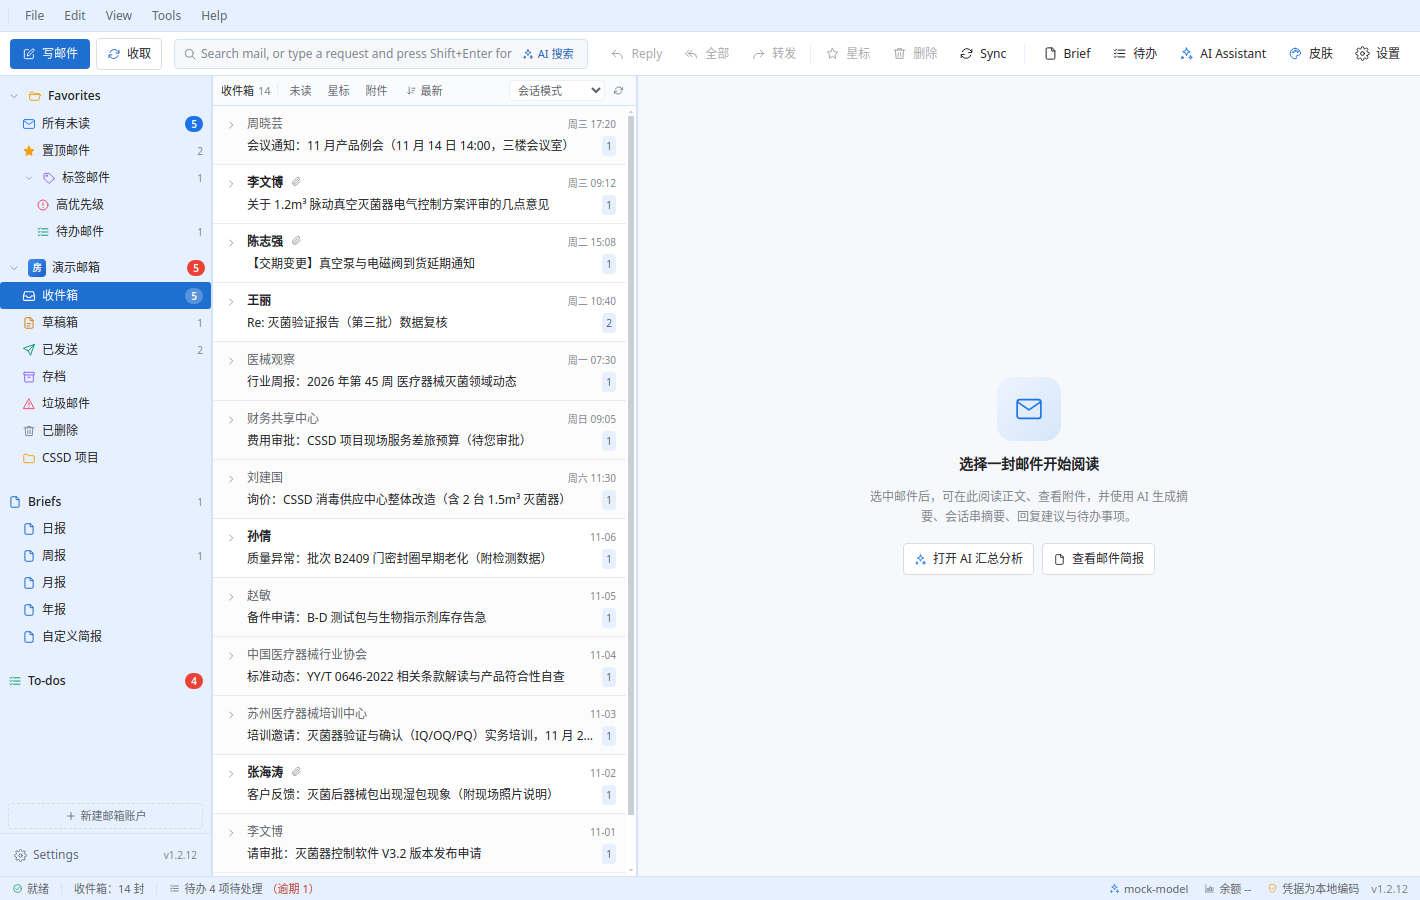
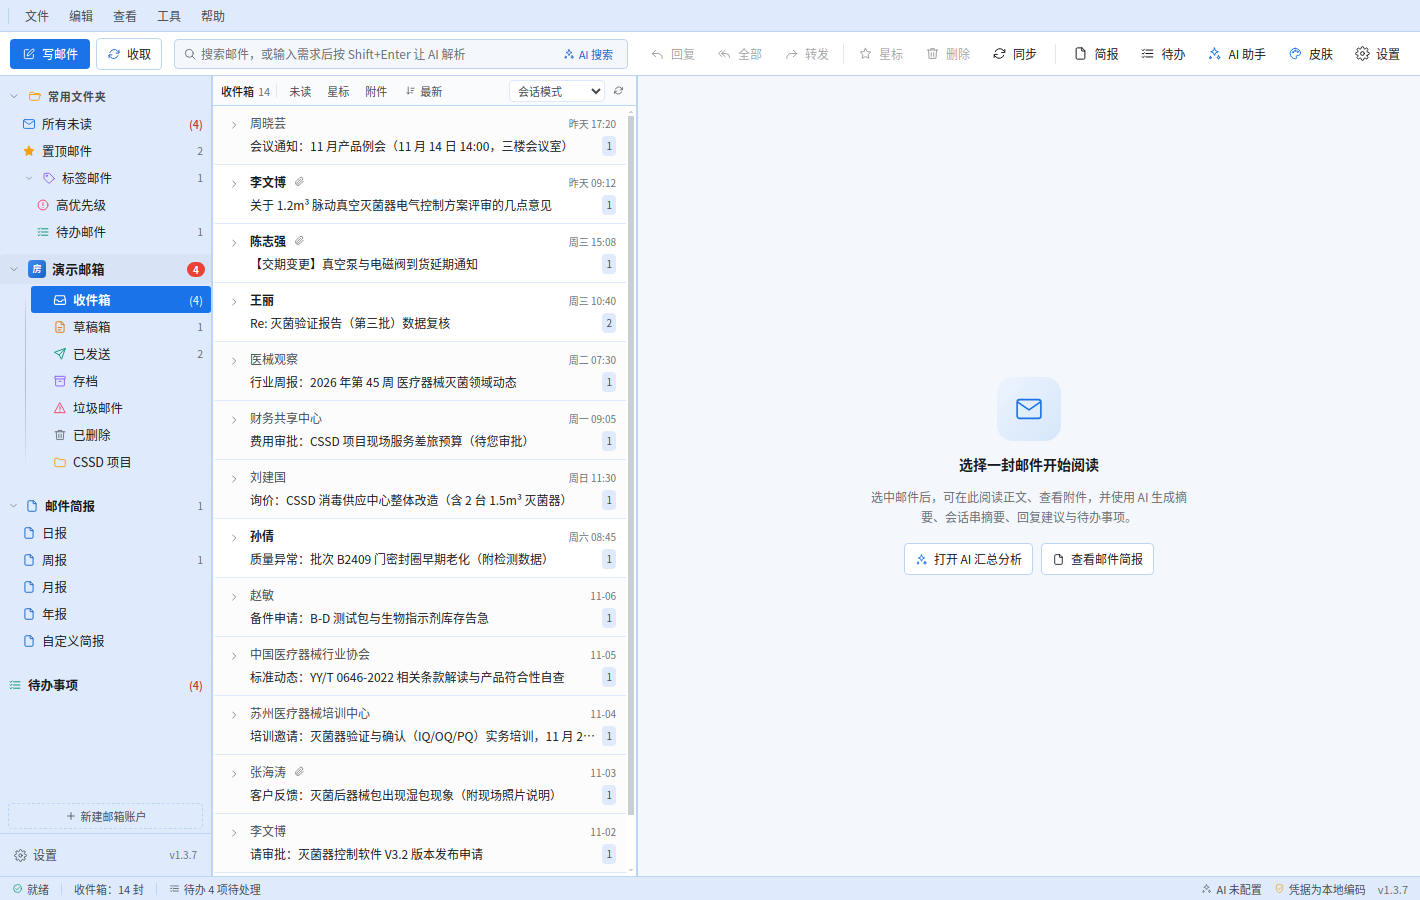
style(v1.3.8): 六套皮肤对比度强化，层级引导线改为渐隐细线

diff --git a/src/index.css b/src/index.css
@@ -18,14 +18,14 @@
     --c-accent-400: 236 111 66;
     --c-accent-500: 232 84 30;
     --c-accent-600: 195 71 25;
-    --c-shell-bg: 245 246 247;
+    --c-shell-bg: 243 244 246;
     --c-shell-panel: 255 255 255;
-    --c-shell-chrome: 238 240 242;
-    --c-shell-line: 217 221 226;
-    --c-shell-lineSoft: 232 235 238;
-    --c-shell-text: 31 35 41;
-    --c-shell-sub: 95 103 114;
-    --c-shell-faint: 141 149 159;
+    --c-shell-chrome: 234 237 240;
+    --c-shell-line: 203 209 216;
+    --c-shell-lineSoft: 222 227 232;
+    --c-shell-text: 22 26 32;
+    --c-shell-sub: 72 80 92;
+    --c-shell-faint: 112 121 133;
 }
 /* Gmail */
 html[data-skin="gmail"] {
@@ -42,14 +42,14 @@ html[data-skin="gmail"] {
     --c-accent-400: 237 97 85;
     --c-accent-500: 234 67 53;
     --c-accent-600: 197 56 45;
-    --c-shell-bg: 246 248 252;
+    --c-shell-bg: 244 247 252;
     --c-shell-panel: 255 255 255;
-    --c-shell-chrome: 230 240 254;
-    --c-shell-line: 210 227 252;
-    --c-shell-lineSoft: 232 240 254;
-    --c-shell-text: 32 33 36;
-    --c-shell-sub: 95 99 104;
-    --c-shell-faint: 128 134 139;
+    --c-shell-chrome: 223 235 253;
+    --c-shell-line: 190 212 244;
+    --c-shell-lineSoft: 221 233 250;
+    --c-shell-text: 24 25 28;
+    --c-shell-sub: 70 74 79;
+    --c-shell-faint: 105 111 117;
 }
 /* Outlook */
 html[data-skin="outlook"] {
@@ -66,14 +66,14 @@ html[data-skin="outlook"] {
     --c-accent-400: 216 84 88;
     --c-accent-500: 209 52 56;
     --c-accent-600: 176 44 47;
-    --c-shell-bg: 250 249 248;
+    --c-shell-bg: 249 248 246;
     --c-shell-panel: 255 255 255;
-    --c-shell-chrome: 234 232 230;
-    --c-shell-line: 210 208 206;
-    --c-shell-lineSoft: 237 235 233;
-    --c-shell-text: 32 31 30;
-    --c-shell-sub: 96 94 92;
-    --c-shell-faint: 138 136 134;
+    --c-shell-chrome: 226 223 220;
+    --c-shell-line: 194 191 187;
+    --c-shell-lineSoft: 224 221 217;
+    --c-shell-text: 24 23 22;
+    --c-shell-sub: 70 68 66;
+    --c-shell-faint: 108 106 104;
 }
 /* Foxmail */
 html[data-skin="foxmail"] {
@@ -90,14 +90,14 @@ html[data-skin="foxmail"] {
     --c-accent-400: 242 151 41;
     --c-accent-500: 240 131 0;
     --c-accent-600: 202 110 0;
-    --c-shell-bg: 238 241 244;
+    --c-shell-bg: 236 240 244;
     --c-shell-panel: 255 255 255;
-    --c-shell-chrome: 221 228 234;
-    --c-shell-line: 195 204 213;
-    --c-shell-lineSoft: 224 230 235;
-    --c-shell-text: 35 40 45;
-    --c-shell-sub: 85 96 107;
-    --c-shell-faint: 138 148 158;
+    --c-shell-chrome: 213 221 229;
+    --c-shell-line: 176 187 199;
+    --c-shell-lineSoft: 208 216 224;
+    --c-shell-text: 24 30 36;
+    --c-shell-sub: 62 74 87;
+    --c-shell-faint: 106 118 130;
 }
 /* Filo Mail */
 /* Notion Mail */
@@ -115,14 +115,14 @@ html[data-skin="notion"] {
     --c-accent-400: 70 151 231;
     --c-accent-500: 35 131 226;
     --c-accent-600: 29 110 190;
-    --c-shell-bg: 251 251 250;
+    --c-shell-bg: 250 250 249;
     --c-shell-panel: 255 255 255;
-    --c-shell-chrome: 241 241 239;
-    --c-shell-line: 222 220 215;
-    --c-shell-lineSoft: 238 237 234;
-    --c-shell-text: 55 53 47;
-    --c-shell-sub: 107 106 101;
-    --c-shell-faint: 155 154 151;
+    --c-shell-chrome: 235 235 232;
+    --c-shell-line: 203 201 195;
+    --c-shell-lineSoft: 226 224 219;
+    --c-shell-text: 38 36 30;
+    --c-shell-sub: 82 80 74;
+    --c-shell-faint: 128 126 121;
 }
 /* Neat Mail AI */
 
@@ -142,12 +142,12 @@ html[data-skin="contrast"] {
     --c-accent-600: 193 18 31;
     --c-shell-bg: 255 255 255;
     --c-shell-panel: 255 255 255;
-    --c-shell-chrome: 236 236 236;
-    --c-shell-line: 107 107 107;
-    --c-shell-lineSoft: 181 181 181;
+    --c-shell-chrome: 232 232 232;
+    --c-shell-line: 84 84 84;
+    --c-shell-lineSoft: 150 150 150;
     --c-shell-text: 0 0 0;
-    --c-shell-sub: 31 31 31;
-    --c-shell-faint: 77 77 77;
+    --c-shell-sub: 20 20 20;
+    --c-shell-faint: 64 64 64;
 }
 
 /* 高对比皮肤：加粗分隔线、放大正文对比 */

diff --git a/src/store/useAppStore.ts b/src/store/useAppStore.ts
@@ -5,6 +5,7 @@ import { resolveLocale, translate, type Locale } from '@/lib/i18n';
 import { api } from '@/lib/api';
 import { htmlToPlain } from '@/lib/markdown';
 import { dateOnly, fullTime } from '@/lib/format';
+import { applySkin } from '@/lib/skin';
 import type {
   Account,
   AccountInput,
@@ -434,7 +435,18 @@ export const useAppStore = create<State>((set, get) => ({
 
     // 截图与调试钩子
     window.__zhimailDev = {
-      showMail: () => set({ view: 'mail', aiPanelOpen: false }),
+      showMail: () => {
+        // 截图时固定回默认皮肤，避免上一次视图切换留下的皮肤影响主界面
+        const settings = get().settings;
+        if (settings && settings.ui.skin !== 'default') {
+          // 先同步切回默认皮肤（本地状态 + DOM 立即生效），再持久化，避免截图抓到上一个皮肤
+          const nextUi = { ...settings.ui, skin: 'default' as const };
+          set({ settings: { ...settings, ui: nextUi } });
+          applySkin('default');
+          void get().updateSettings({ ui: nextUi });
+        }
+        set({ view: 'mail', aiPanelOpen: false });
+      },
       showAI: () => {
         set({ view: 'mail', aiPanelOpen: true, aiTab: 'analysis' });
         void (async () => {

diff --git a/src/layout/FolderTree.tsx b/src/layout/FolderTree.tsx
@@ -354,7 +354,12 @@ export function FolderTree() {
                 <div className="relative ml-[25px] mt-0.5 pl-1.5">
                   <span
                     aria-hidden
-                    className="pointer-events-none absolute bottom-1.5 left-0 top-1.5 w-px rounded-full bg-gradient-to-b from-black/[0.03] via-black/[0.13] to-transparent"
+                    className="pointer-events-none absolute bottom-2 left-0 top-2 w-px rounded-full"
+                    style={{
+                      // 层级引导线：顶部淡入、中段最深、底部渐隐，避免整条实线的生硬感
+                      backgroundImage:
+                        'linear-gradient(to bottom, rgba(17,24,39,0) 0%, rgba(17,24,39,0.18) 16%, rgba(17,24,39,0.22) 52%, rgba(17,24,39,0.08) 90%, rgba(17,24,39,0) 100%)',
+                    }}
                   />
                   {accountFolders.map((folder) => (
                     <FolderRow

diff --git a/CHANGELOG.md b/CHANGELOG.md
@@ -1,3 +1,8 @@
+## [1.3.8] - 2026-11-13
+### 优化
+- 六套外观全部强化对比度：正文文字压深（默认皮肤 #161a20，高对比皮肤纯黑），次级文字与浅灰说明文字同步加深，分隔线与边框加深一档，浅色面板与工具栏底色区分更明显；邮件列表主题、摘要、时间戳的可读性随之提升。
+- 层级引导线重绘：改为顶部淡入、中段最深、底部渐隐的 1px 圆角细线（半透明墨色叠加，深浅随皮肤自动协调），不再是整条生硬的实线。
+- 高对比外观的分隔线进一步加深，弱视环境下层级更清楚。
 ## [1.3.7] - 2026-11-13
 ### 优化
 - 左侧文件夹树字号分级：账户名 13px 加粗、文件夹名 12.5px、未读数 11px、总数 10.5px，分组标题 11px 加字距，层级一眼可分。
